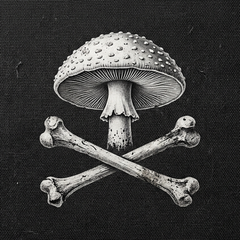
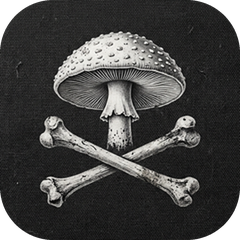
Add files via upload

diff --git a/index.html b/index.html
@@ -56,6 +56,10 @@ input,textarea{width:100%;padding:10px;border-radius:2px;border:1px solid #5a402
 .cm b{color:var(--g1);font-weight:700}.cm small{opacity:.55;margin-left:8px}
 .cm .del{float:right;background:none;border:0;color:#c88;cursor:pointer}
 .err{color:#e99;margin:6px 0 0}
+.who{margin:0 2px 10px;padding:8px 12px;border:1px solid var(--g3);background:#0b0603;font-size:17px;max-width:420px}
+.who>div{padding:4px 0;border-top:1px solid #2a1c10}.who>div:first-child{border-top:0}.who small{opacity:.6;margin-left:8px}
+.who .whoh{display:flex;align-items:center;gap:8px;color:var(--g1);font-variant:all-small-caps;letter-spacing:.05em}.who .whoh img{width:26px;height:26px}
+.btn.seen{padding:4px 2px;font-size:16px;margin:0 0 6px}
 #lb{padding-top:env(safe-area-inset-top);position:fixed;inset:0;background:#000f;z-index:9;display:none;flex-direction:column}
 #lb.on{display:flex}#lb .top{display:flex;justify-content:space-between;padding:10px 14px}
 #lb .scroll{flex:1;overflow:auto;touch-action:pan-x pan-y pinch-zoom;-webkit-overflow-scrolling:touch}
@@ -207,79 +211,135 @@ const RX = {
  sleepy:['So sleepy',stk('sleepy')], object:['I object',stk('object')]
 };
 
+// ---- Remembering readers: name + email are kept on this device (and in a cookie as a backup),
+// so if the browser ever forgets the session we sign them straight back in without asking.
+const WHO_K = 'rr_who';
+function who(){ try{ const v = localStorage.getItem(WHO_K); if(v) return JSON.parse(v); }catch(e){}
+ const m = document.cookie.match(/(?:^|; )rr_who=([^;]*)/); try{ return m ? JSON.parse(decodeURIComponent(m[1])) : null; }catch(e){ return null; } }
+function saveWho(name, email){ const v = JSON.stringify({name, email}); try{ localStorage.setItem(WHO_K, v); }catch(e){}
+ document.cookie = `rr_who=${encodeURIComponent(v)}; max-age=${400*864e2}; path=/RileyRag/; SameSite=Lax; Secure`;
+ try{ navigator.storage && navigator.storage.persist && navigator.storage.persist(); }catch(e){} }
+function forgetWho(){ try{ localStorage.removeItem(WHO_K); }catch(e){} document.cookie = 'rr_who=; max-age=0; path=/RileyRag/'; }
+async function quickLogin(name, email){   // true, 'editor', or an error message
+ try{
+  const { data, error } = await sb.functions.invoke('rr-login', { body:{ name, email } });
+  if(error){ let m = error.message; try{ const j = await error.context.json(); if(j.editor) return 'editor'; m = j.error || m; }catch(x){} return m; }
+  if(data.editor) return 'editor';
+  let v = await sb.auth.verifyOtp({ token_hash:data.token_hash, type:'magiclink' });
+  if(v.error) v = await sb.auth.verifyOtp({ token_hash:data.token_hash, type:'email' });
+  if(v.error) return v.error.message;
+  saveWho(name, email); return true;
+ }catch(x){ return navigator.onLine === false ? 'You’re offline. Connect to the internet and try again.' : (x.message || 'Couldn’t sign in. Please try again.'); }
+}
+let switching = false;
 async function boot(){
- const { data:{ session } } = await sb.auth.getSession();
+ let { data:{ session } } = await sb.auth.getSession();
+ if(!session && !switching){ const w = who(); if(w && w.email && await quickLogin(w.name, w.email) === true) session = (await sb.auth.getSession()).data.session; }
  if(!session){ $('#nav').hidden = true; setTimeout(nudge, 2500); return authView(); }
  if(recovering) return recoveryView();
  const { data } = await sb.from('profiles').select('*').eq('id', session.user.id).maybeSingle();
  if(!data){ await sb.auth.signOut({ scope:'local' }); $('#nav').hidden = true; return authView(); } // signed in, but not as a Rag member
- me = data; $('#nav').hidden = false; route(); setTimeout(nudge, 2500);
+ me = data; if(session.user.email && !who()) saveWho(me.name, session.user.email);
+ sb.rpc('touch_me').then(() => {}, () => {});
+ $('#nav').hidden = false; route(); setTimeout(nudge, 2500);
 }
 sb.auth.onAuthStateChange(ev => { if(ev==='PASSWORD_RECOVERY'){ recovering = true; recoveryView(); } if(ev==='SIGNED_OUT'){ me = null; boot(); } });
 addEventListener('hashchange', () => { if(me) route(); });
 
-function authView(){
- app.innerHTML = `<form class="panel" id="af"><h2 class="gilt">${signup?'Join the family':'Welcome back'}</h2>
- ${signup?'<label for="n">Your name (as the family knows you)</label><input id="n" required autocomplete="name">':''}
- <label for="e">Email</label><input id="e" type="email" required autocomplete="email">
- <label for="p">Password ${signup?'(6 or more characters)':''}</label><input id="p" type="password" minlength="6" required autocomplete="${signup?'new':'current'}-password">
- <p class="err" id="er" role="alert"></p>
- <button class="btn">${signup?'Create my account':'Sign in'}</button>
- <button type="button" class="btn ghost" id="sw">${signup?'I already have an account':'New here? Create an account'}</button>${signup?'':'<button type="button" class="btn ghost" id="fg">Forgot your password?</button>'}</form>${PHONE&&!STANDALONE()?'<button class="btn ghost getapp" id="ga">📲 Put the Rag on your phone</button>':''}`;
+function authView(msg){
+ const w = who() || {};
+ app.innerHTML = `<form class="panel" id="af"><h2 class="gilt">Welcome to the Rag</h2><p style="margin:6px 0 4px">Just tell us who you are. No password needed, and this phone will remember you.</p>
+ <label for="n">Your name (as the family knows you)</label><input id="n" required maxlength="60" autocomplete="name" value="${esc(w.name||'')}">
+ <label for="e">Your email</label><input id="e" type="email" required autocomplete="email" inputmode="email" autocapitalize="none" spellcheck="false" value="${esc(w.email||'')}">
+ <div id="pw" hidden><label for="p">Editor password</label><input id="p" type="password" autocomplete="current-password"></div>
+ <p class="err" id="er" role="alert">${esc(msg||'')}</p>
+ <button class="btn solid" id="go" style="width:100%;padding:12px">Open the paper</button>
+ <button type="button" class="btn ghost" id="fg" hidden>Forgot your editor password?</button></form>${PHONE&&!STANDALONE()?'<button class="btn ghost getapp" id="ga">📲 Put the Rag on your phone</button>':''}`;
  $('#ga') && ($('#ga').onclick = installSheet);
- $('#sw').onclick = () => { signup=!signup; authView(); };
- if(!signup) $('#fg').onclick = forgotView;
+ $('#fg').onclick = forgotView;
  $('#af').onsubmit = async e => {
-  e.preventDefault(); const email=$('#e').value.trim(), password=$('#p').value;
-  const r = signup ? await sb.auth.signUp({email,password,options:{data:{name:$('#n').value.trim()}}}) : await sb.auth.signInWithPassword({email,password});
-  if(r.error) return $('#er').textContent = r.error.message;
-  if(signup && !r.data.session){ const t = await sb.auth.signInWithPassword({email,password});
-   if(t.error) return $('#er').textContent = 'Almost there! If you received a confirmation email, tap its link and then sign in. If you already have an account, choose “I already have an account.”'; }
-  boot();
+  e.preventDefault(); const name = $('#n').value.trim(), email = $('#e').value.trim().toLowerCase(), er = $('#er'), go = $('#go');
+  er.textContent = ''; go.disabled = true; go.textContent = 'Opening…';
+  try{
+   if(!$('#pw').hidden){
+    const r = await sb.auth.signInWithPassword({ email, password:$('#p').value });
+    if(r.error){ er.textContent = r.error.message; return; }
+    saveWho(name, email); switching = false; return boot();
+   }
+   const r = await quickLogin(name, email);
+   if(r === 'editor'){ $('#pw').hidden = false; $('#fg').hidden = false; er.textContent = 'You’re an editor, so please add your password too.'; $('#p').focus(); return; }
+   if(r !== true){ er.textContent = r; return; }
+   switching = false; boot();
+  }finally{ go.disabled = false; go.textContent = 'Open the paper'; }
  };
 }
 
 async function feedView(){
  const hello = !greeted; greeted = true;
- app.innerHTML = `${hello?`<p class="hi" id="hi">Welcome, ${esc(me.name)}</p>`:''}${me.is_editor?'<div class="bar ed"><button class="btn ghost" id="eb">Email draft</button><button class="btn ghost" id="mb">Members</button></div>':''}<div id="tools"></div><div id="feed">Loading issues…</div><div class="foot"><button class="btn ghost" id="so">Sign out</button></div>`;
+ app.innerHTML = `${hello?`<p class="hi" id="hi">Welcome, ${esc(me.name)}</p>`:''}${me.is_editor?'<div class="bar ed"><button class="btn ghost" id="eb">Email draft</button><button class="btn ghost" id="mb">Members</button></div>':''}<div id="tools"></div><div id="feed">Loading issues…</div><div class="foot"><button class="btn ghost" id="so">Not ${esc(me.name)}? Switch reader</button></div>`;
  if(hello) setTimeout(() => $('#hi')?.classList.add('off'), 3500);
- $('#so').onclick = () => sb.auth.signOut();
+ $('#so').onclick = () => { if(!confirm('Sign out so someone else can read here?')) return; switching = true; forgetWho(); sb.auth.signOut(); };
  if(me.is_editor){ $('#mb').onclick = () => $('#mp') ? closeMembers() : members(); $('#eb').onclick = () => emailDraft(); memberCount(); }
  const [i,c,r] = await Promise.all([
   sb.from('issues').select('*').order('issue_date',{ascending:false}).order('number',{ascending:false}),
   sb.from('comments').select('*,profiles(name)').order('created_at'),
-  sb.from('reactions').select('*')]);
+  me.is_editor ? sb.from('reactions').select('issue_id,kind,user_id,profiles(name)') : sb.from('reactions').select('issue_id,kind,user_id').eq('user_id', me.id)]);
+ const [cn, vw] = await Promise.all([sb.rpc('reaction_counts'), me.is_editor ? sb.from('issue_views').select('issue_id,last_at,n,profiles(name)') : Promise.resolve({data:null})]);
+ RXC = {}; (cn.data||[]).forEach(x => RXC[x.issue_id+'|'+x.kind] = x.n);
+ VIEWS = vw.data || [];
  if(i.error) return $('#feed').textContent = i.error.message;
  $('#feed').innerHTML = i.data.length ? '' : '<p style="text-align:center">No issues yet. The press is warming up.</p>';
  i.data.forEach(is => $('#feed').append(issueEl(is, c.data||[], r.data||[])));
 }
 
+let RXC = {}, VIEWS = [];
+const seen = new Set(), viewObs = 'IntersectionObserver' in window ? new IntersectionObserver(es => es.forEach(en => { const id = +en.target.dataset.iss;
+ if(en.isIntersecting && !seen.has(id)){ seen.add(id); viewObs.unobserve(en.target); sb.rpc('saw_issue', {iid:id}).then(() => {}, () => {}); } }), {threshold:.5}) : null;
+const ago = t => { const d = (Date.now() - new Date(t)) / 864e5; return d < 1 ? 'today' : d < 2 ? 'yesterday' : d < 30 ? Math.floor(d)+' days ago' : new Date(t).toLocaleDateString(); };
 function issueEl(is, cs, rs){
  const el = document.createElement('article'); el.className='issue';
  const d = new Date(is.issue_date+'T00:00').toLocaleDateString(undefined,{day:'numeric',month:'long',year:'numeric'});
  el.innerHTML = `<button class="sheet" aria-label="Open issue ${is.number} full size"><img loading="lazy" src="${pub(is.img_path)}" alt="The Riley Rag, Issue ${is.number}, ${d}"></button>
- <div class="rxs"></div><div class="cms"></div>
+ <div class="rxs"></div><div class="who" hidden></div>${me.is_editor?'<button class="btn ghost seen"></button><div class="who seenl" hidden></div>':''}<div class="cms"></div>
  <form><label class="sr" for="c${is.id}">Leave a comment</label><textarea id="c${is.id}" rows="2" maxlength="1000" placeholder="Leave a comment…" required></textarea><button class="btn">Post comment</button><p class="err"></p></form>`;
- el.querySelector('.sheet').onclick = () => { $('#lbimg').src = pub(is.img_path); $('#lbpdf').href = pub(is.pdf_path); $('#lb').classList.add('on'); };
- const rx = el.querySelector('.rxs');
+ el.querySelector('.sheet').onclick = () => { $('#lbimg').src = pub(is.img_path); $('#lbpdf').href = pub(is.pdf_path); $('#lb').classList.add('on'); if(!me.is_editor) sb.rpc('saw_issue', {iid:is.id}).then(() => {}, () => {}); };
+ if(!me.is_editor && viewObs){ el.querySelector('.sheet').dataset.iss = is.id; viewObs.observe(el.querySelector('.sheet')); }
+ if(me.is_editor){   // who has read this issue
+  const v = VIEWS.filter(x => x.issue_id === is.id).sort((a,b) => new Date(b.last_at) - new Date(a.last_at)), sb2 = el.querySelector('.seen'), sl = el.querySelector('.seenl');
+  sb2.textContent = v.length ? `👁 Read by ${v.length} ${v.length===1?'person':'people'} ▾` : '👁 Nobody has opened this one yet';
+  sl.innerHTML = v.map(x => `<div><b>${esc(x.profiles?.name||'Someone')}</b><small>${ago(x.last_at)}${x.n>1?` · ${x.n} times`:''}</small></div>`).join('');
+  sb2.onclick = () => { if(v.length){ sl.hidden = !sl.hidden; sb2.textContent = sb2.textContent.replace(/[▾▴]$/, sl.hidden?'▾':'▴'); } };
+ }
+ const rx = el.querySelector('.rxs'), whoBox = el.querySelector('.who');
+ let openKind = null;
  const drawRx = () => {
   rx.innerHTML = '';
   Object.entries(RX).forEach(([k,[label,svg]]) => {
    const mine = rs.some(x => x.issue_id===is.id && x.kind===k && x.user_id===me.id);
-   const n = rs.filter(x => x.issue_id===is.id && x.kind===k).length;
+   const n = RXC[is.id+'|'+k] || 0;
    const b = document.createElement('button'); b.className='rx'; b.setAttribute('aria-pressed',mine);
    b.setAttribute('aria-label',label+(n?`, ${n}`:'')); b.title = label;
    b.innerHTML = `${svg}${n?`<span>${n}</span>`:''}`;
+   if(me.is_editor){   // editors don't react; they see who did
+    b.setAttribute('aria-pressed', openKind===k); b.setAttribute('aria-expanded', openKind===k);
+    b.onclick = () => { openKind = openKind===k ? null : k; drawRx(); };
+    rx.append(b); return;
+   }
    b.onclick = async () => {
     b.disabled = true;
     const {error} = mine ? await sb.from('reactions').delete().match({issue_id:is.id,user_id:me.id,kind:k}) : await sb.from('reactions').insert({issue_id:is.id,kind:k});
     if(error){ b.disabled = false; return alert(error.message); }
-    if(mine){ const i = rs.findIndex(x => x.issue_id===is.id && x.kind===k && x.user_id===me.id); if(i>-1) rs.splice(i,1); }
-    else rs.push({issue_id:is.id, user_id:me.id, kind:k});
+    if(mine){ const i = rs.findIndex(x => x.issue_id===is.id && x.kind===k && x.user_id===me.id); if(i>-1) rs.splice(i,1); RXC[is.id+'|'+k] = Math.max(0, n-1); }
+    else { rs.push({issue_id:is.id, user_id:me.id, kind:k}); RXC[is.id+'|'+k] = n+1; }
     drawRx(); [...rx.children].find(c => c.title===label)?.focus({preventScroll:true});
    };
    rx.append(b);
   });
+  if(me.is_editor){
+   const names = openKind ? rs.filter(x => x.issue_id===is.id && x.kind===openKind).map(x => x.profiles?.name || 'Someone').sort((a,b) => a.localeCompare(b)) : [];
+   whoBox.hidden = !openKind;
+   if(openKind) whoBox.innerHTML = `<div class="whoh">${RX[openKind][1]}<span>${esc(RX[openKind][0])}</span></div>` + (names.length ? names.map(n => `<div>${esc(n)}</div>`).join('') : '<div><i>Nobody yet</i></div>');
+  }
  };
  drawRx();
  const box = el.querySelector('.cms');
@@ -334,11 +394,13 @@ async function members(){
  const {data, error} = await sb.rpc('member_list');
  if(error) return $('#tools').innerHTML = `<p class="err">${esc(error.message)}</p>`;
  memberLabel(data.length);
- $('#tools').innerHTML = `<div class="panel" id="mp"><h2 class="gilt">Members (${data.length})</h2>${data.map(m => `<div class="cm"><b>${esc(m.name)}</b>${m.is_editor?' (editor)':''}<br><small style="margin:0">${esc(m.email)}</small>${m.is_editor?'':`<button class="del" data-id="${m.id}">Remove</button>`}</div>`).join('')}<button class="btn ghost" id="mc">Close</button></div>`;
+ const {data:ls} = await sb.from('profiles').select('id,last_seen'), LS = {}; (ls||[]).forEach(x => LS[x.id] = x.last_seen);
+ data.sort((a,b) => new Date(LS[b.id]||0) - new Date(LS[a.id]||0));
+ $('#tools').innerHTML = `<div class="panel" id="mp"><h2 class="gilt">Members (${data.length})</h2>${data.map(m => `<div class="cm"><b>${esc(m.name)}</b>${m.is_editor?' (editor)':''}<br><small style="margin:0">${esc(m.email)} · ${LS[m.id]?'last read '+ago(LS[m.id]):'hasn’t visited yet'}</small>${m.is_editor?'':`<button class="del" data-id="${m.id}">Remove</button>`}</div>`).join('')}<button class="btn ghost" id="mc">Close</button></div>`;
  $('#mc').onclick = closeMembers;
  document.querySelectorAll('#tools .del').forEach(b => b.onclick = async () => {
   const nm = b.closest('.cm').querySelector('b').textContent;
-  if(!confirm(`Remove ${nm}? This also deletes their comments, reactions, game scores and Ask Peter letters. They can sign up again with the same email.`)) return;
+  if(!confirm(`Remove ${nm}? This also deletes their comments, reactions, game scores and Ask Peter letters. If they come back with the same email, they’ll start fresh.`)) return;
   const {error} = await sb.rpc('delete_member',{uid:b.dataset.id}); error ? alert(error.message) : members();
  });
 }
@@ -484,12 +546,13 @@ function recoveryView(){
 }
 const GALLERY = 'https://photos.app.goo.gl/6F13zuFyThHE7W2AA';   // shared Google Photos album; phones with the Google Photos app open it there
 const MORE_APPS = [
- ['язык врагов','https://joshp523.github.io/russian/','app-russian.png'],['Idioma Celestial','https://joshp523.github.io/palabras/','app-palabras.png'],
-  ['Rag Press','https://joshp523.github.io/RileyRag/press/','app-press.png'],['Writing','https://joshp523.github.io/writing-app/','app-writing.png'],
+ ['Rag Press','https://joshp523.github.io/RileyRag/press/','app-press.png'],
+ ['язык врагов','https://joshp523.github.io/russian/','app-russian.png'],['Idioma Celestial','https://joshp523.github.io/palabras/','app-palabras.png?v=3'],
+ ['Riley Rangers','https://joshp523.github.io/Rangers-app/','app-rangers.png'],
  ['Habits: Josh','https://joshp523.github.io/daily-discipline/','app-habits-josh.png'],
  ['Habits: Grandma','https://joshp523.github.io/wendys-app/','app-habits-grandma.png'],
-  ['Riley Rangers','https://joshp523.github.io/Rangers-app/','app-rangers.png'],
- ['Mushroom classifier','https://joshp523.github.io/Mushroom-Classifier/','app-shroom.png']];
+ ['Writing','https://joshp523.github.io/writing-app/','app-writing.png'],
+ ['Mushroom classifier','','app-mushroom.png']];
 function aboutExtras(){
  return `<div class="bar" style="margin-top:26px"><a class="btn" href="${GALLERY}" target="_blank" rel="noopener">Photo gallery</a></div>
  <div class="ph-panel" id="phn"></div>
